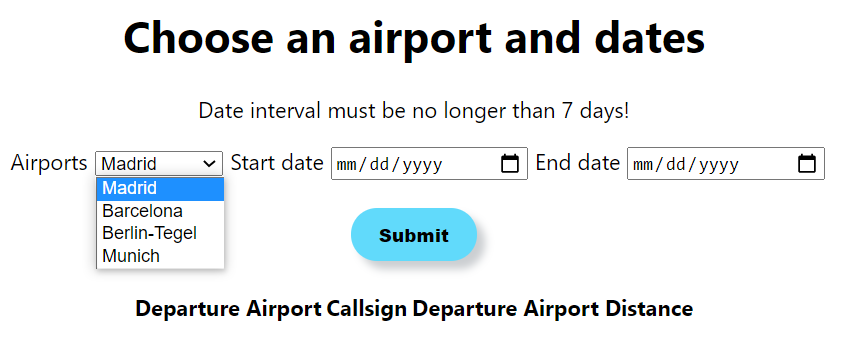
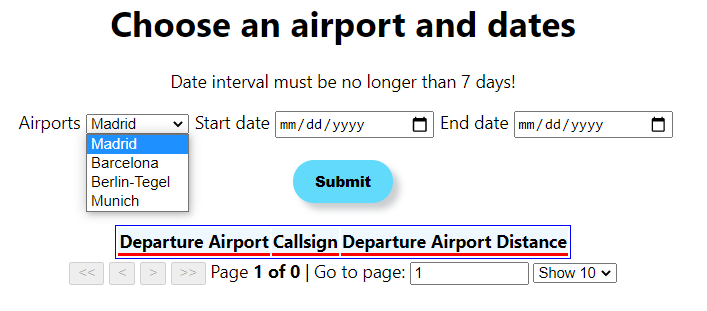
adding pagination to the table

Changed region(s): [[0.0, 0.2315, 0.9646, 0.926], [0.1245, 0.0289, 0.8402, 0.1736]]

diff --git a/src/pages/Airports/AirportsResponse.jsx b/src/pages/Airports/AirportsResponse.jsx
@@ -1,26 +1,143 @@
 import React from "react";
+import { useTable, usePagination } from "react-table";
+import "./AirportsResponse.css";
 
 export default function AirportsResponse({ listOfArrivals }) {
+  // DEFINING THE DATA WE WANT TO SEE IN THE TABLE 👇
+  const data = React.useMemo(
+    () =>
+      listOfArrivals.map((flight, index) => ({
+        index1: `${flight.estDepartureAirport}`,
+        index2: `${flight.callsign}`,
+        index3: `${flight.estDepartureAirportHorizDistance}`,
+      })),
+
+    [listOfArrivals]
+  );
+
+  // DEFINIG THE COLUMNS OF OUR TABLE 👇
+  const columns = React.useMemo(
+    () => [
+      {
+        Header: "Departure Airport",
+        //accesor is the "key" in the data
+        accessor: "index1",
+      },
+      {
+        Header: "Callsign",
+        accessor: "index2",
+      },
+      {
+        Header: "Departure Airport Distance",
+        accessor: "index3",
+      },
+    ],
+    []
+  );
+
+  // APPLYING THE TABLE INSTANCE TO MARKUP 👇
+  const {
+    getTableProps,
+    getTableBodyProps,
+    headerGroups,
+    page,
+    prepareRow,
+    canPreviousPage,
+    canNextPage,
+    pageOptions,
+    pageCount,
+    gotoPage,
+    nextPage,
+    previousPage,
+    setPageSize,
+    state: { pageIndex, pageSize },
+  } = useTable(
+    {
+      columns,
+      data,
+      initialState: { pageIndex: 0 },
+    },
+    usePagination
+  );
+
+  // RENDERING THE TABLE 👇
   return (
-    <div>
-      <table>
+    <>
+      <table {...getTableProps()} className="table">
         <thead>
-          <tr>
-            <th>Departure Airport</th>
-            <th>Callsign</th>
-            <th>Departure Airport Distance</th>
-          </tr>
-        </thead>
-        <tbody>
-          {listOfArrivals.map((flight, index) => (
-            <tr key={index}>
-              <td>{flight.estDepartureAirport}</td>
-              <td>{flight.callsign}</td>
-              <td>{flight.estDepartureAirportHorizDistance}</td>
+          {headerGroups.map((headerGroup) => (
+            <tr {...headerGroup.getHeaderGroupProps()}>
+              {headerGroup.headers.map((column) => (
+                <th {...column.getHeaderProps()} className="th">
+                  {column.render("Header")}
+                </th>
+              ))}
             </tr>
           ))}
+        </thead>
+        <tbody {...getTableBodyProps()}>
+          {page.map((row, i) => {
+            prepareRow(row);
+            return (
+              <tr {...row.getRowProps()}>
+                {row.cells.map((cell) => {
+                  return (
+                    <td {...cell.getCellProps()} className="td">
+                      {cell.render("Cell")}
+                    </td>
+                  );
+                })}
+              </tr>
+            );
+          })}
         </tbody>
       </table>
-    </div>
+
+      {/* PAGINATION STARTS HERE 👇 */}
+      <div className="pagination">
+        <button onClick={() => gotoPage(0)} disabled={!canPreviousPage}>
+          {"<<"}
+        </button>{" "}
+        <button onClick={() => previousPage()} disabled={!canPreviousPage}>
+          {"<"}
+        </button>{" "}
+        <button onClick={() => nextPage()} disabled={!canNextPage}>
+          {">"}
+        </button>{" "}
+        <button onClick={() => gotoPage(pageCount - 1)} disabled={!canNextPage}>
+          {">>"}
+        </button>{" "}
+        <span>
+          Page{" "}
+          <strong>
+            {pageIndex + 1} of {pageOptions.length}
+          </strong>{" "}
+        </span>
+        <span>
+          | Go to page:{" "}
+          <input
+            type="number"
+            defaultValue={pageIndex + 1}
+            onChange={(e) => {
+              const page = e.target.value ? Number(e.target.value) - 1 : 0;
+              gotoPage(page);
+            }}
+            style={{ width: "100px" }}
+          />
+        </span>{" "}
+        <select
+          value={pageSize}
+          onChange={(e) => {
+            setPageSize(Number(e.target.value));
+          }}
+        >
+          {[10, 20, 30, 40, 50].map((pageSize) => (
+            <option key={pageSize} value={pageSize}>
+              Show {pageSize}
+            </option>
+          ))}
+        </select>
+      </div>
+    </>
   );
 }

diff --git a/src/pages/Airports/AirportsResponse.css b/src/pages/Airports/AirportsResponse.css
@@ -1,0 +1,16 @@
+.table {
+  border: solid 1px blue;
+}
+
+.th {
+  border-bottom: solid 3px red;
+  background: aliceblue;
+  color: black;
+  font-weight: bold;
+}
+
+.td {
+  padding: 10px;
+  border: solid 1px gray;
+  background: papayawhip;
+}
